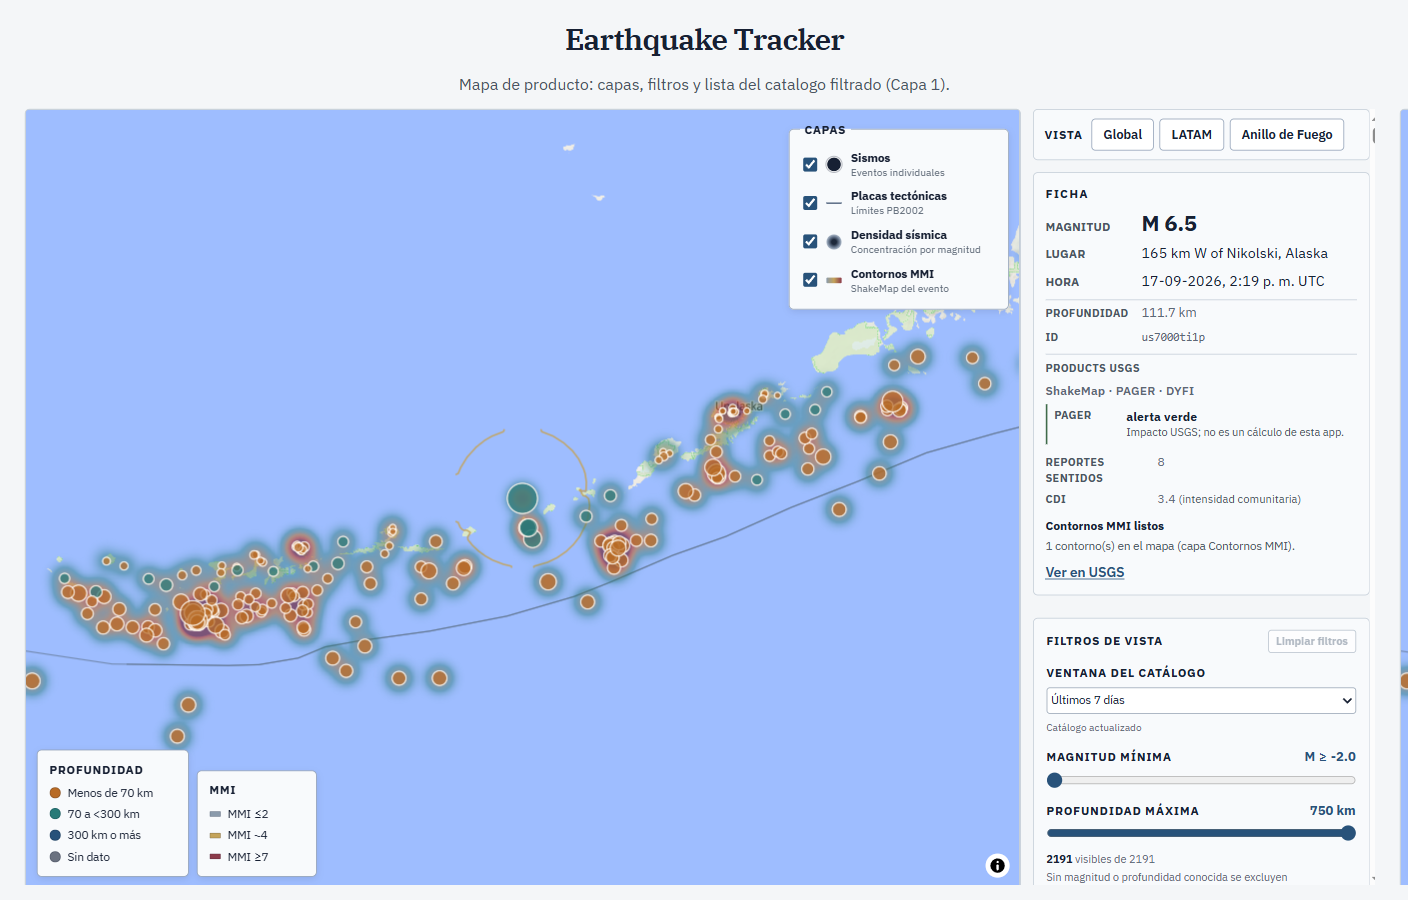
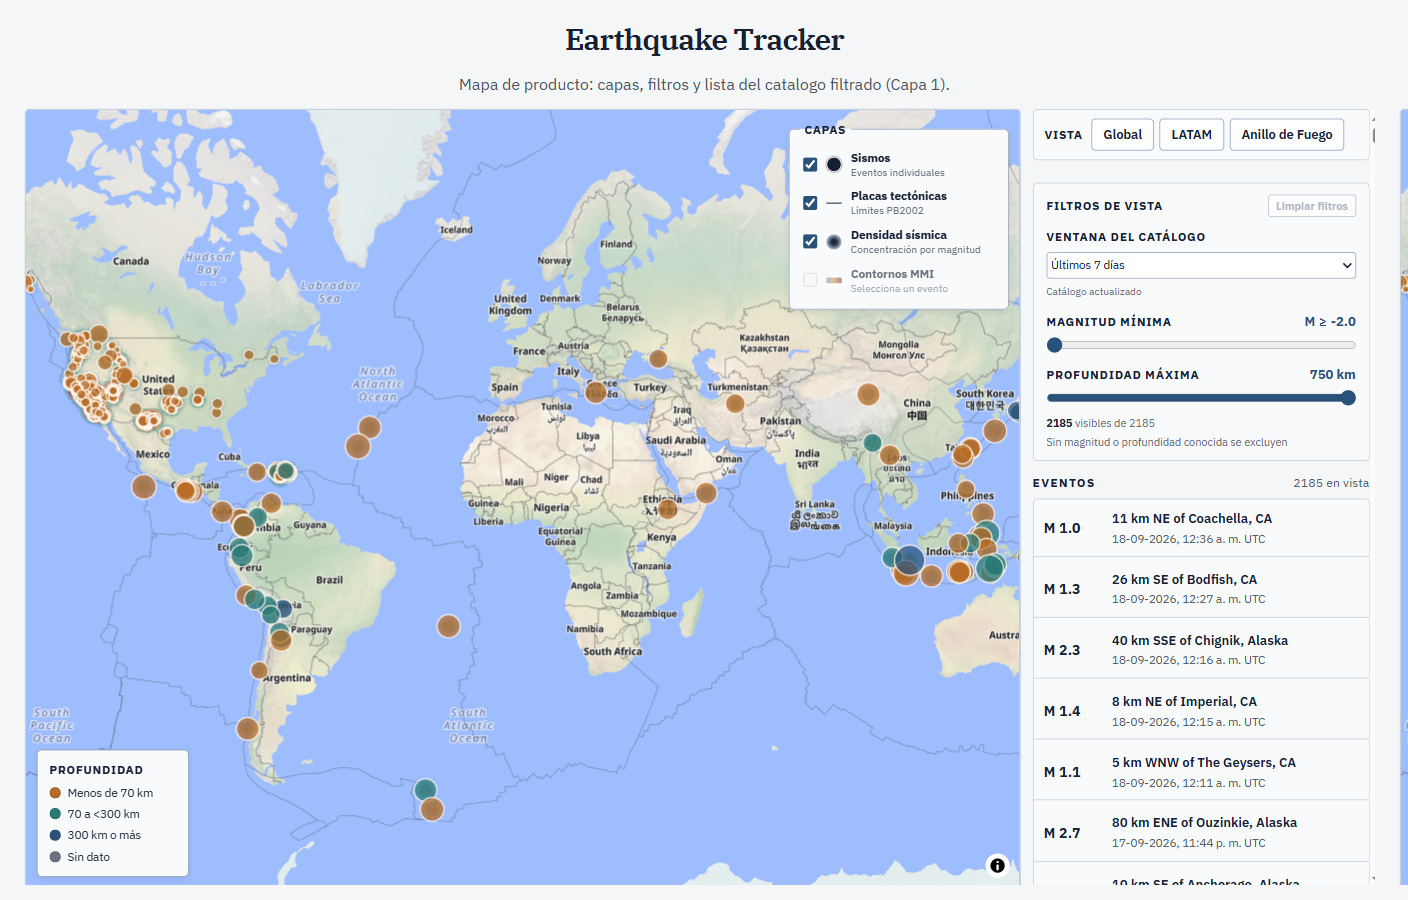
docs: use Global overview for the README hero shot.

diff --git a/README.en.md b/README.en.md
@@ -12,7 +12,7 @@ data boundary and engineering behind it.
 **Demo:** https://earthquake-tracker-siesquen.vercel.app  
 **Español:** [README.md](./README.md)
 
-![Product map: layers, USGS event sheet, and desktop panel](./docs/assets/hero-desktop.png)
+![Global map with USGS catalog, layers, and filter panel](./docs/assets/hero-desktop.png)
 
 ## Product
 

diff --git a/README.md b/README.md
@@ -12,7 +12,7 @@ de datos e ingeniería detrás.
 **Demo:** https://earthquake-tracker-siesquen.vercel.app  
 **English:** [README.en.md](./README.en.md)
 
-![Mapa de producto: capas, ficha USGS y panel en desktop](./docs/assets/hero-desktop.png)
+![Mapa global con catálogo USGS, capas y panel de filtros](./docs/assets/hero-desktop.png)
 
 ## Producto
 
